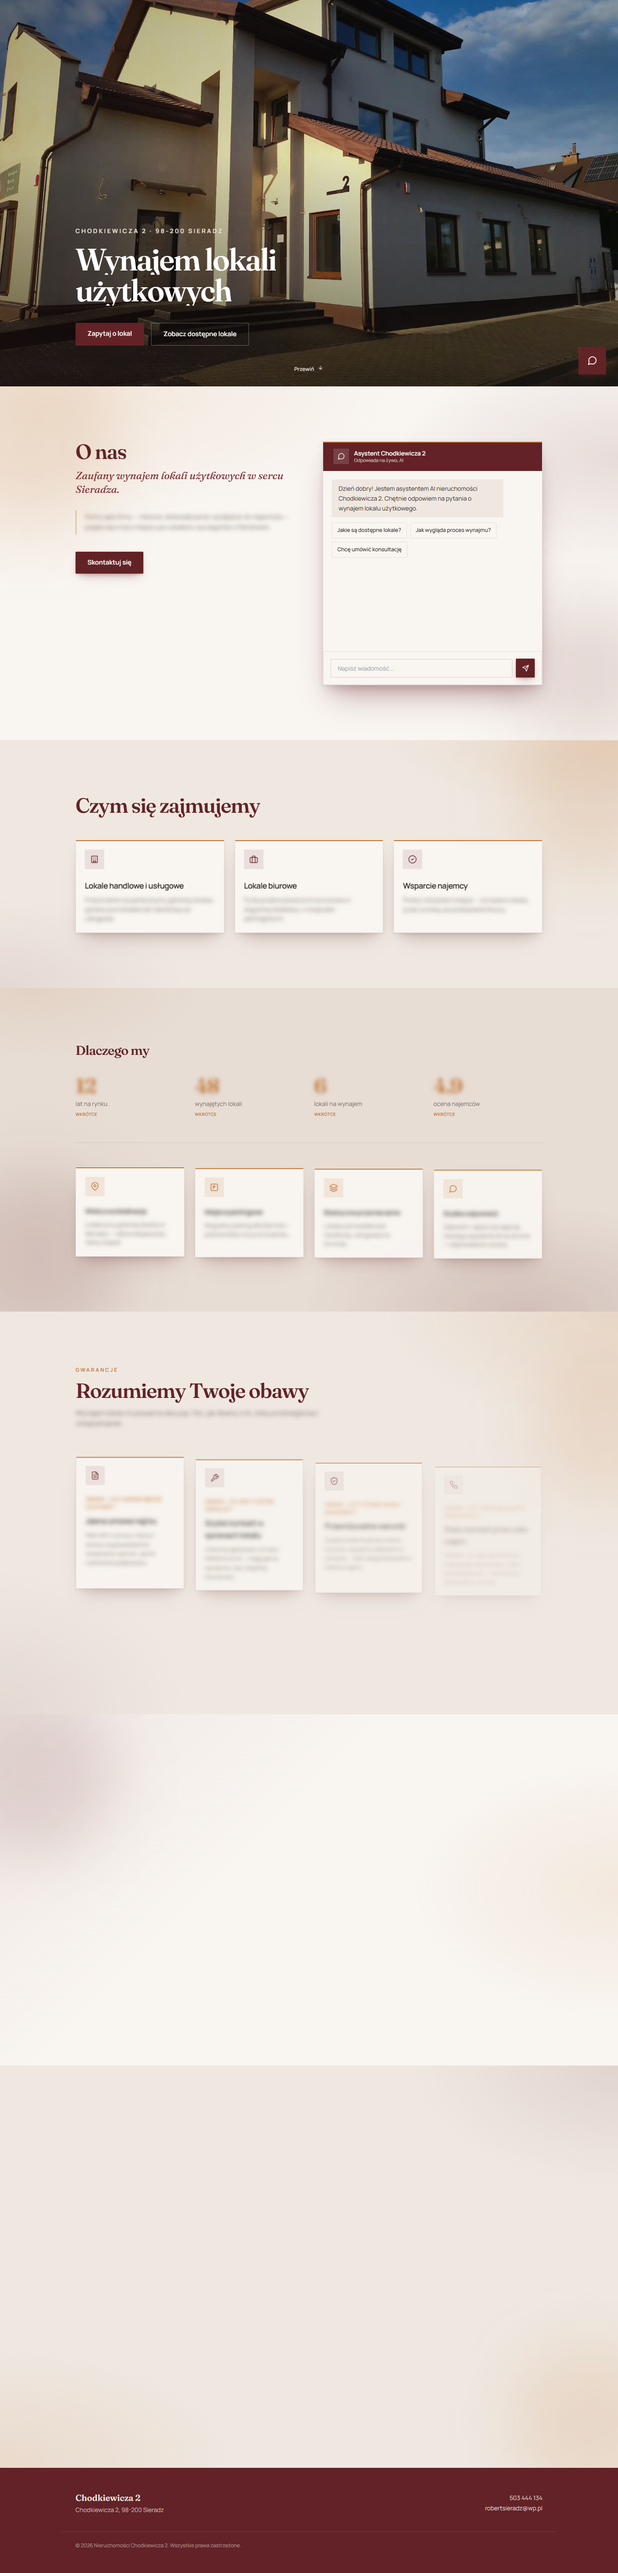
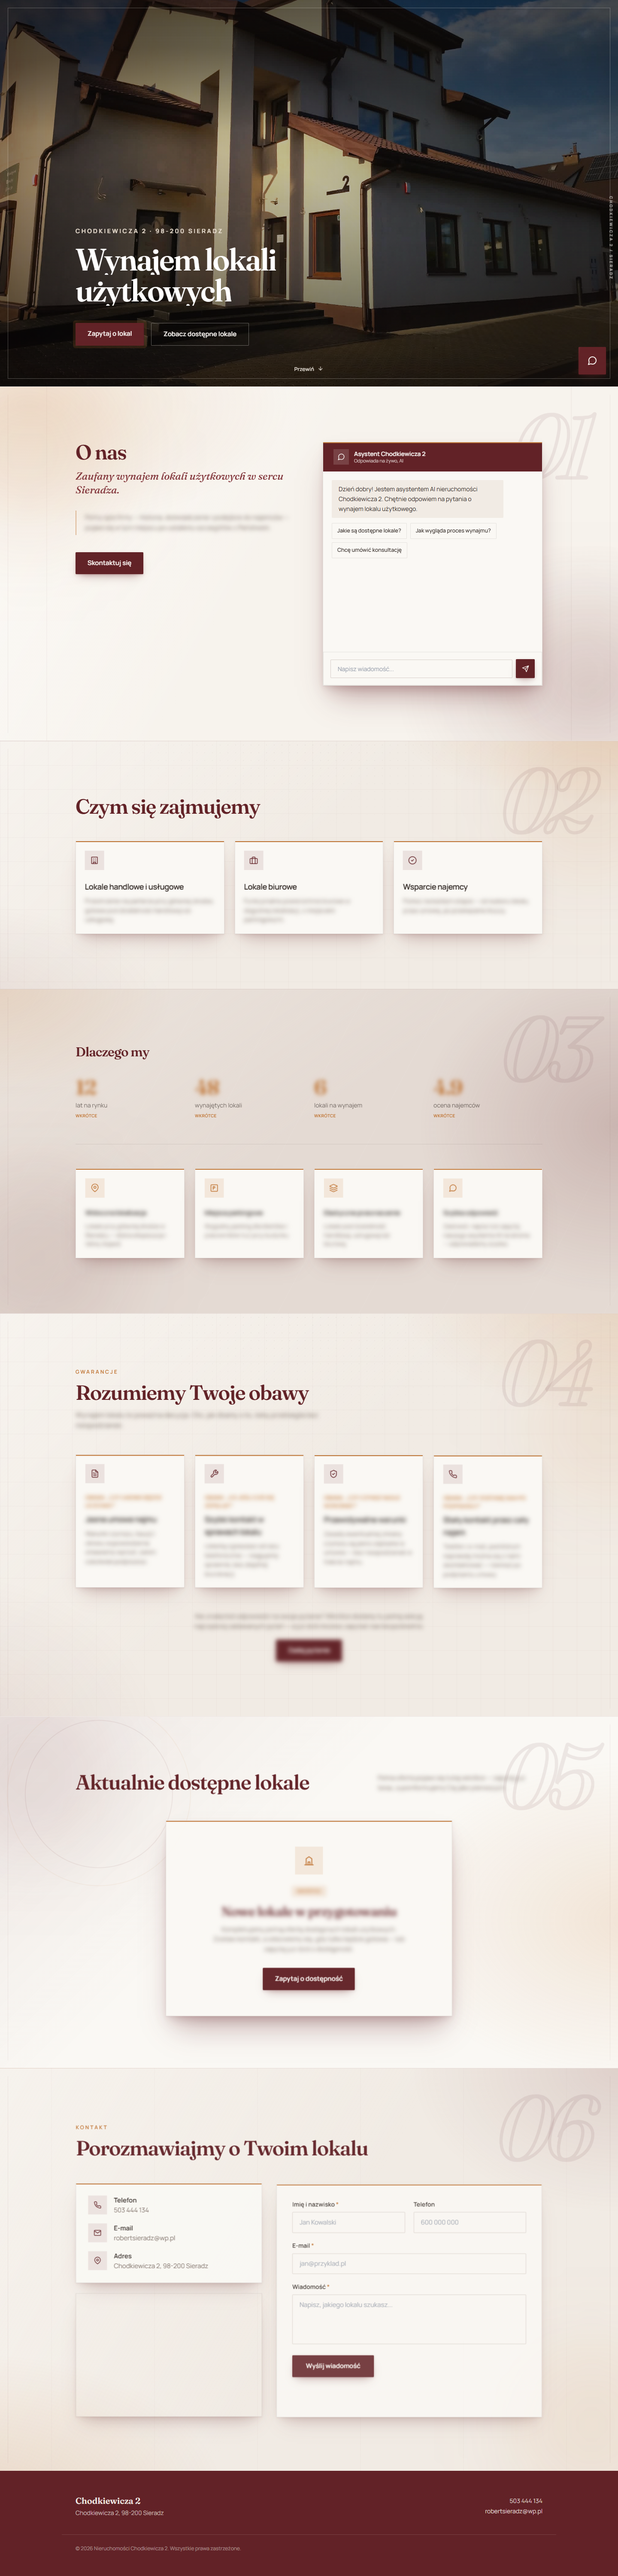
m

diff --git a/index.html b/index.html
@@ -16,9 +16,9 @@
 <script src="https://cdn.jsdelivr.net/npm/animejs@3.2.2/lib/anime.min.js"></script>
 <style>
 :root{
-  --bg: 34 38% 96%;
-  --surface: 30 32% 91%;
-  --surface-2: 28 28% 87%;
+  --bg: 37 38% 97%;
+  --surface: 33 30% 92%;
+  --surface-2: 27 24% 86%;
   --primary: 356 48% 26%;
   --primary-2: 356 42% 36%;
   --accent: 28 62% 46%;
@@ -30,6 +30,9 @@
 html{scroll-behavior:auto}
 body{
   background:hsl(var(--bg));
+  background-image:
+    radial-gradient(circle at 12% 8%, hsl(var(--accent)/0.055), transparent 26rem),
+    radial-gradient(circle at 88% 34%, hsl(var(--primary)/0.045), transparent 32rem);
   color:hsl(var(--text));
   font-family:'Manrope',sans-serif;
   line-height:1.7;
@@ -38,33 +41,45 @@ body{
 .font-display{font-family:'Fraunces',serif}
 h1,h2,h3,.tracking-tightish{letter-spacing:-0.03em}
 .tint-clay{
+  background-color:hsl(35 38% 95%);
   background-image:
-    radial-gradient(ellipse 80% 60% at 15% 0%, hsl(var(--accent)/0.10), transparent 60%),
-    radial-gradient(ellipse 60% 50% at 100% 20%, hsl(var(--primary)/0.12), transparent 60%);
+    linear-gradient(90deg, transparent 0 7.5%, hsl(var(--primary)/0.055) 7.55%, transparent 7.65% 92.35%, hsl(var(--primary)/0.055) 92.45%, transparent 92.55%),
+    radial-gradient(ellipse 70% 58% at 5% 5%, hsl(var(--accent)/0.16), transparent 60%),
+    radial-gradient(ellipse 50% 65% at 96% 86%, hsl(var(--primary)/0.13), transparent 64%),
+    linear-gradient(120deg, hsl(40 50% 99%/0.72), transparent 44%);
 }
 .tint-sand{
-  background:hsl(var(--surface));
+  background-color:hsl(var(--surface));
   background-image:
-    radial-gradient(ellipse 70% 50% at 100% 0%, hsl(var(--accent)/0.14), transparent 55%),
-    radial-gradient(ellipse 50% 60% at 0% 100%, hsl(var(--primary)/0.08), transparent 60%);
+    linear-gradient(hsl(var(--primary)/0.032) 1px, transparent 1px),
+    linear-gradient(90deg, hsl(var(--primary)/0.032) 1px, transparent 1px),
+    radial-gradient(ellipse 68% 52% at 104% -4%, hsl(var(--accent)/0.20), transparent 58%),
+    radial-gradient(ellipse 56% 70% at -8% 108%, hsl(var(--primary)/0.10), transparent 62%),
+    linear-gradient(135deg, hsl(40 45% 98%/0.52), transparent 48%);
+  background-size:56px 56px,56px 56px,auto,auto,auto;
 }
 .tint-umber{
-  background:hsl(var(--surface-2));
+  background-color:hsl(var(--surface-2));
   background-image:
-    radial-gradient(ellipse 60% 55% at 85% 100%, hsl(var(--primary)/0.16), transparent 60%),
-    radial-gradient(ellipse 50% 40% at 5% 0%, hsl(var(--accent)/0.10), transparent 55%);
+    radial-gradient(ellipse 52% 84% at 100% 42%, hsl(var(--primary)/0.20), transparent 62%),
+    radial-gradient(ellipse 48% 58% at 0% 0%, hsl(var(--accent)/0.15), transparent 58%),
+    repeating-linear-gradient(118deg, transparent 0 84px, hsl(35 35% 98%/0.09) 85px, transparent 86px 168px),
+    linear-gradient(145deg, hsl(34 32% 92%/0.56), transparent 46%);
 }
 .tint-rose{
-  background:hsl(var(--bg));
+  background-color:hsl(37 38% 97%);
   background-image:
-    linear-gradient(135deg, hsl(var(--primary)/0.06), transparent 40%),
-    radial-gradient(ellipse 55% 60% at 100% 50%, hsl(var(--accent)/0.10), transparent 60%);
+    radial-gradient(circle at 16% 22%, transparent 0 170px, hsl(var(--primary)/0.07) 171px 172px, transparent 173px 212px, hsl(var(--accent)/0.06) 213px 214px, transparent 215px),
+    radial-gradient(ellipse 66% 76% at 102% 58%, hsl(var(--accent)/0.15), transparent 60%),
+    linear-gradient(135deg, hsl(var(--primary)/0.075), transparent 42%);
 }
 .tint-linen{
-  background:hsl(var(--surface));
+  background-color:hsl(var(--surface));
   background-image:
-    radial-gradient(ellipse 70% 55% at 0% 100%, hsl(var(--accent)/0.12), transparent 55%),
-    radial-gradient(ellipse 55% 50% at 100% 0%, hsl(var(--primary)/0.10), transparent 60%);
+    repeating-linear-gradient(90deg, transparent 0 119px, hsl(var(--primary)/0.035) 120px, transparent 121px 240px),
+    radial-gradient(ellipse 70% 64% at -4% 108%, hsl(var(--accent)/0.18), transparent 58%),
+    radial-gradient(ellipse 54% 58% at 100% 0%, hsl(var(--primary)/0.13), transparent 62%),
+    linear-gradient(120deg, hsl(40 45% 98%/0.46), transparent 52%);
 }
 .card-border{border:1px solid hsl(var(--text)/0.1)}
 .card-top{position:relative}
@@ -146,7 +161,7 @@ h1,h2,h3,.tracking-tightish{letter-spacing:-0.03em}
   transition:transform 220ms cubic-bezier(0.23,1,0.32,1);
 }
 .link-underline:hover::after{transform:scaleX(1);transform-origin:left}
-.nav-blur{background:hsl(var(--bg)/0.72); backdrop-filter:blur(14px); -webkit-backdrop-filter:blur(14px)}
+.nav-blur{background:hsl(var(--bg)/0.78); backdrop-filter:blur(18px) saturate(1.2); -webkit-backdrop-filter:blur(18px) saturate(1.2)}
 #mainNav .nav-link, #mainNav #menuBtn{color:hsl(34 38% 96%); transition:color 200ms ease}
 #mainNav.nav-blur .nav-link, #mainNav.nav-blur #menuBtn{color:hsl(var(--text))}
 [data-reveal]{opacity:0; transform:translateY(32px)}
@@ -179,6 +194,27 @@ input:focus,textarea:focus{
 
 .hero-kenburns{animation:kenBurns 22s cubic-bezier(0.45,0,0.55,1) infinite alternate}
 @keyframes kenBurns{from{transform:scale(1) translate3d(0,0,0)}to{transform:scale(1.13) translate3d(-1%,-1%,0)}}
+.hero-shade{
+  background:
+    radial-gradient(ellipse 64% 58% at 28% 70%, transparent 0%, hsl(20 28% 5%/0.12) 54%, hsl(20 30% 4%/0.48) 100%),
+    linear-gradient(180deg, hsl(20 30% 5%/0.34) 0%, transparent 34%, hsl(20 28% 4%/0.68) 100%);
+}
+.hero-warmth{
+  background:
+    linear-gradient(90deg, hsl(var(--primary)/0.46) 0%, hsl(var(--primary)/0.12) 44%, transparent 72%),
+    radial-gradient(circle at 72% 24%, hsl(36 80% 72%/0.16), transparent 30%);
+  mix-blend-mode:multiply;
+}
+#top::before{
+  content:'';position:absolute;inset:18px;z-index:2;pointer-events:none;
+  border:1px solid hsl(37 42% 96%/0.28);
+  box-shadow:inset 0 0 80px hsl(20 30% 4%/0.12);
+}
+#top::after{
+  content:'CHODKIEWICZA 2  /  SIERADZ';position:absolute;z-index:3;pointer-events:none;
+  top:50%;right:-82px;transform:rotate(90deg) translateX(50%);
+  color:hsl(37 42% 96%/0.68);font-size:9px;font-weight:700;letter-spacing:.34em;
+}
 
 .hero-word-mask{overflow:hidden; display:inline-block; vertical-align:top}
 .hero-word{display:inline-block; will-change:transform}
@@ -208,15 +244,36 @@ input:focus,textarea:focus{
 
 .text-placeholder{filter:blur(5px); user-select:none; pointer-events:none}
 
-.bg-accent-blob{position:absolute; border-radius:50%; filter:blur(70px); pointer-events:none; z-index:0; will-change:transform}
-.section-relative{position:relative; overflow:hidden}
+.bg-accent-blob{position:absolute; border-radius:50%; filter:blur(92px); opacity:.72; pointer-events:none; z-index:0; will-change:transform}
+.section-relative{position:relative; overflow:hidden; isolation:isolate; border-top:1px solid hsl(var(--primary)/0.07)}
 .section-relative > .max-w-6xl,.section-relative > .max-w-2xl{position:relative; z-index:1}
+.section-relative::before{
+  content:'';position:absolute;z-index:0;pointer-events:none;
+  inset:18px;
+  border-left:1px solid hsl(var(--primary)/0.07);
+  border-right:1px solid hsl(var(--primary)/0.07);
+}
+.section-relative::after{
+  content:attr(data-scene);position:absolute;z-index:0;pointer-events:none;
+  right:clamp(22px,5vw,76px);top:clamp(18px,4vw,54px);
+  font-family:'Fraunces',serif;font-size:clamp(6rem,15vw,13rem);line-height:.8;
+  font-weight:600;font-style:italic;letter-spacing:-.08em;
+  color:transparent;-webkit-text-stroke:1px hsl(var(--primary)/0.095);
+  opacity:.9;
+}
 
 .grain-dots{position:absolute; inset:0; pointer-events:none; z-index:0; opacity:0.5;
-  background-image:radial-gradient(hsl(var(--text)/0.10) 1px, transparent 1px);
-  background-size:22px 22px;
+  background-image:radial-gradient(hsl(var(--text)/0.12) .7px, transparent .8px);
+  background-size:18px 18px;
   -webkit-mask-image:radial-gradient(ellipse 60% 50% at 50% 0%, black 0%, transparent 75%);
   mask-image:radial-gradient(ellipse 60% 50% at 50% 0%, black 0%, transparent 75%);
+}
+@media (max-width:640px){
+  #top::before{inset:10px}
+  #top::after{display:none}
+  .section-relative::before{inset:10px}
+  .section-relative::after{right:20px;top:28px;font-size:7rem}
+  .tint-sand{background-size:38px 38px,38px 38px,auto,auto,auto}
 }
 </style>
 </head>
@@ -256,8 +313,8 @@ input:focus,textarea:focus{
 <header id="top" class="relative min-h-[100svh] flex items-end overflow-hidden glow-parent">
   <div class="absolute inset-0" data-hero-bg>
     <img src="image.png" alt="Siedziba firmy Nieruchomości Chodkiewicza 2" class="hero-kenburns w-full h-full object-cover" style="filter:brightness(1.2) saturate(1.05)" loading="eager">
-    <div class="absolute inset-0" style="background:linear-gradient(180deg, hsl(20 30% 6%/0.22) 0%, hsl(20 30% 6%/0.1) 40%, hsl(20 25% 5%/0.62) 100%)"></div>
-    <div class="absolute inset-0" style="background:linear-gradient(90deg, hsl(356 50% 12%/0.25), transparent 60%)"></div>
+    <div class="absolute inset-0 hero-shade"></div>
+    <div class="absolute inset-0 hero-warmth"></div>
   </div>
   <div class="glow-spot"></div>
 
@@ -278,7 +335,7 @@ input:focus,textarea:focus{
   </a>
 </header>
 
-<section id="o-nas" class="py-24 sm:py-32 tint-clay section-relative">
+<section id="o-nas" class="py-24 sm:py-32 tint-clay section-relative" data-scene="01">
   <div class="bg-accent-blob" data-blob style="width:420px; height:420px; left:-10%; top:-8%; background:hsl(var(--accent)/0.16)"></div>
   <div class="bg-accent-blob" data-blob style="width:320px; height:320px; right:-6%; bottom:0%; background:hsl(var(--primary)/0.14)"></div>
   <div class="max-w-6xl mx-auto px-5 sm:px-8 grid lg:grid-cols-2 gap-12 lg:gap-16 items-start">
@@ -316,7 +373,7 @@ input:focus,textarea:focus{
   </div>
 </section>
 
-<section id="czym-sie-zajmujemy" class="py-24 sm:py-32 tint-sand section-relative">
+<section id="czym-sie-zajmujemy" class="py-24 sm:py-32 tint-sand section-relative" data-scene="02">
   <div class="grain-dots"></div>
   <div class="bg-accent-blob" data-blob style="width:360px; height:360px; right:-8%; top:-10%; background:hsl(var(--accent)/0.16)"></div>
   <div class="max-w-6xl mx-auto px-5 sm:px-8">
@@ -347,7 +404,7 @@ input:focus,textarea:focus{
   </div>
 </section>
 
-<section id="dlaczego-my" class="tint-umber py-24 sm:py-32 section-relative">
+<section id="dlaczego-my" class="tint-umber py-24 sm:py-32 section-relative" data-scene="03">
   <div class="bg-accent-blob" data-blob style="width:400px; height:400px; left:-8%; bottom:-10%; background:hsl(var(--primary)/0.16)"></div>
   <div class="max-w-6xl mx-auto px-5 sm:px-8">
     <h2 class="font-display text-2xl sm:text-3xl font-semibold tracking-tightish mb-10" style="color:hsl(var(--primary))" data-reveal>Dlaczego my</h2>
@@ -407,7 +464,7 @@ input:focus,textarea:focus{
   </div>
 </section>
 
-<section id="gwarancje" class="py-24 sm:py-32 tint-sand section-relative">
+<section id="gwarancje" class="py-24 sm:py-32 tint-sand section-relative" data-scene="04">
   <div class="grain-dots"></div>
   <div class="bg-accent-blob" data-blob style="width:340px; height:340px; right:-10%; top:10%; background:hsl(var(--accent)/0.14)"></div>
   <div class="max-w-6xl mx-auto px-5 sm:px-8">
@@ -459,7 +516,7 @@ input:focus,textarea:focus{
   </div>
 </section>
 
-<section id="lokale" class="py-24 sm:py-32 tint-rose section-relative">
+<section id="lokale" class="py-24 sm:py-32 tint-rose section-relative" data-scene="05">
   <div class="bg-accent-blob" data-blob style="width:380px; height:380px; left:-8%; top:-6%; background:hsl(var(--primary)/0.14)"></div>
   <div class="max-w-6xl mx-auto px-5 sm:px-8">
     <div class="flex flex-col sm:flex-row sm:items-end sm:justify-between gap-4 mb-14" data-reveal>
@@ -483,7 +540,7 @@ input:focus,textarea:focus{
   </div>
 </section>
 
-<section id="kontakt" class="py-24 sm:py-32 tint-linen section-relative">
+<section id="kontakt" class="py-24 sm:py-32 tint-linen section-relative" data-scene="06">
   <div class="bg-accent-blob" data-blob style="width:360px; height:360px; right:-8%; bottom:-8%; background:hsl(var(--accent)/0.14)"></div>
   <div class="max-w-6xl mx-auto px-5 sm:px-8">
     <div class="mb-14" data-reveal>
